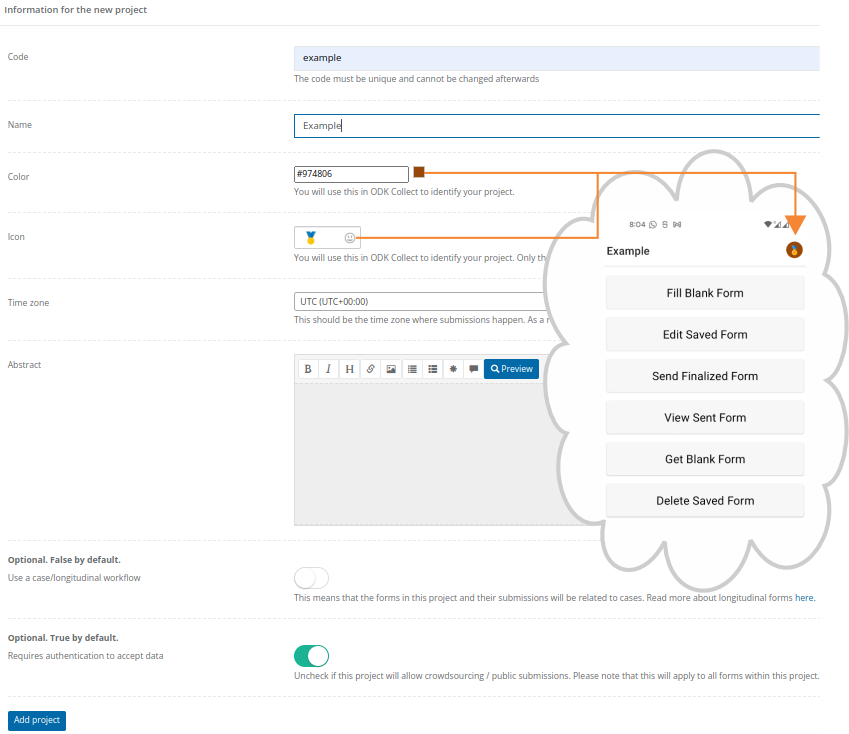
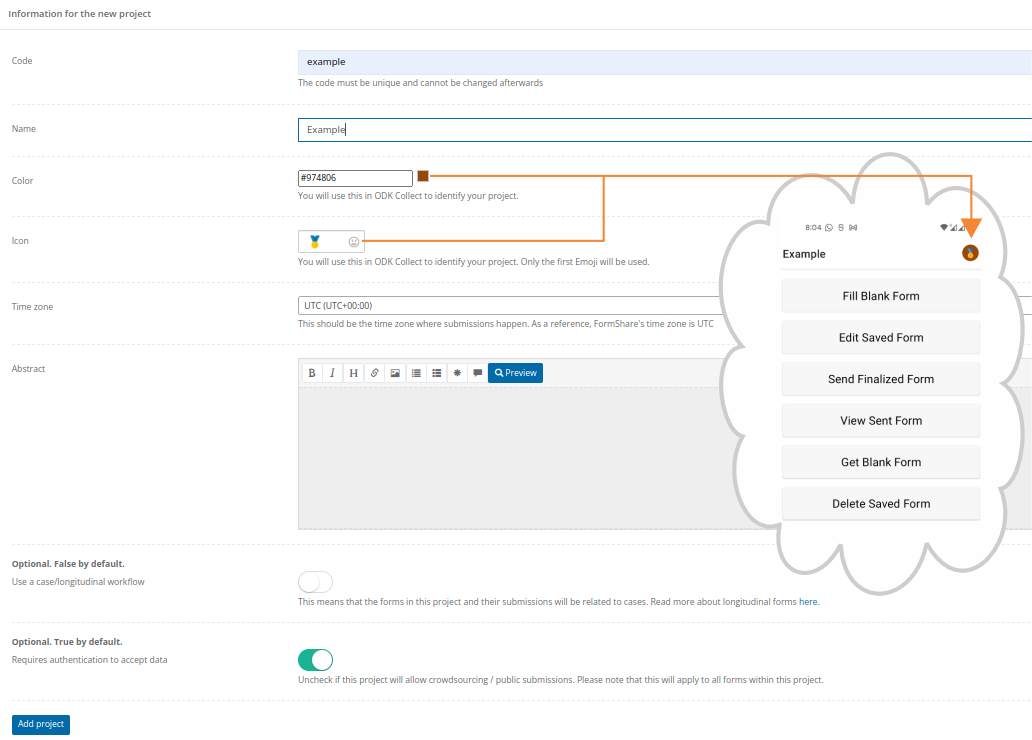
GitBook: [#16] More work in docs.

diff --git a/docs/guides/creating-your-first-task/create-and-assign-assistants.md b/docs/guides/creating-your-first-task/create-and-assign-assistants.md
@@ -4,7 +4,7 @@ After uploading a new form, FormShare will take you to the form details page.
 
 ![](../../.gitbook/assets/form\_details\_01\_captions.png)
 
-1\. Testing stage: Every form that you upload to FormShare is stored first in a **testing stage**. This means that FormShare hasn't created a [repository for it](../../fundamentals/repositories/how-formshare-stores-data.md). The testing stage allows you to test your form and easily update it with fixed versions without the need of [merging data into a repository](../../data-management/for-designers/working-with-submissions.md).
+1\. Testing stage: Every form that you upload to FormShare is stored first in a **testing stage**. This means that FormShare hasn't created a [repository for it](../../fundamentals/repositories/how-does-formshare-stores-my-data.md). The testing stage allows you to test your form and easily update it with fixed versions without the need of [merging data into a repository](../../data-management/for-designers/working-with-submissions.md).
 
 {% hint style="warning" %}
 Important Note: <mark style="color:red;">**Submissions received to a form in the testing stage are considered test data**</mark>. This means that any <mark style="color:red;">**submissions will be discarded**</mark> every time that you upload a new version of the form.
@@ -19,7 +19,7 @@ This behavior **is not the same** when your form has a repository. The section "
 4\. Delete: The delete button deletes the forms and all their data.
 
 {% hint style="info" %}
-FormShare does not physically (from the hard drive) removes any submissions. If you remove a form FormShare will remove it from the FormShare database and will not be accessible through the interface but its repository in MySQL will remain intact but marked as deleted. The same for any files and products generated in the form. The section "[How FormShare stores data](../../fundamentals/repositories/how-formshare-stores-data.md)" covers more details about this.
+FormShare does not physically (from the hard drive) removes any submissions. If you remove a form FormShare will remove it from the FormShare database and will not be accessible through the interface but its repository in MySQL will remain intact but marked as deleted. The same for any files and products generated in the form. The section "[How FormShare stores data](../../fundamentals/repositories/how-does-formshare-stores-my-data.md)" covers more details about this.
 {% endhint %}
 
 5\. Update ODK Form: As indicated in point 1 above, forms in a testing stage can be updated easily at any time. To update the form click on the "Update ODK Form" button. The "Upload new version" window will appear:
@@ -42,7 +42,7 @@ Remember: To control duplicate submissions, you need to select a variable from y
 6\. Downloads: Submissions received to a form in the testing stage are considered test data. At this stage, FormShare provides minimal download types:
 
 * Download ODK form: This will download the ODK form in Excel format
-* Download data in CSV format: This is a "[Flat CSV file](../../data-management/data-products/flat-csv-one-csv-file.md)". FormShare does not [resolve option labels or multi-select fields](../../fundamentals/repositories/how-formshare-stores-data.md) for data in the testing stage.
+* Download data in CSV format: This is a "[Flat CSV file](../../data-management/data-products/flat-csv-one-csv-file.md)". FormShare does not [resolve option labels or multi-select fields](../../fundamentals/repositories/how-does-formshare-stores-my-data.md) for data in the testing stage.
 * Download submitted media: This is a Zip file containing any media submitted to the form. Media files will be separated by [submission ID](../../fundamentals/submissions.md).
 
 7\. Form files: ODK forms can use supporting files when collecting data. These files can be data or media files. If your form uses data files, e.g., CSV files, FormShare will alert you if such files are missing. FormShare will finish checking your form once you attach all necessary data files.

diff --git a/docs/guides/creating-your-first-task/test-your-form.md b/docs/guides/creating-your-first-task/test-your-form.md
@@ -3,9 +3,35 @@
 Your form is now ready for collecting testing data.&#x20;
 
 {% hint style="info" %}
-Why do I need to test my form?
+We have noticed that 90% of the users do not test their forms before generating a repository. Even though FormShare allows [merging different versions of a form](../../fundamentals/repositories/merging-subversions-of-a-form.md) into one common repository, such a procedure is simpler when the form is in a testing stage.
+
+**Why do I need to test my form?**
+
+Though FormShare checks for certain errors in your form it does not check:
+
+* Logic problems. For example, if a question is not asked due to a wrong condition.
+* Is very common to miss a question and a field test can spot such problems.
+* Field agents might not understand the survey and more notes are required.
 {% endhint %}
 
 ![](../../.gitbook/assets/form\_test\_stage\_01\_captions.png)
 
-1. Configure Collect:&#x20;
+1\. Configure Collect: Use the QR code to configure ODK Collect. You can also use the ODK URL to manually configure it.
+
+2\. Important note: This form is in the testing stage. This means that you can update it at all times and **submissions are for testing purposes**. When you finished testing the form you can create a repository for the form and start collecting "real" data.
+
+{% hint style="warning" %}
+**Remember**: <mark style="color:red;">**Submissions received to a form in the testing stage are considered test data**</mark>. This means that any <mark style="color:red;">**submissions will be discarded**</mark> every time that you upload a new version of the form.
+
+This behavior **is not the same** when your form has a repository. The section "[Working with submissions](../../data-management/for-designers/working-with-submissions.md)" discusses how to perform updates to a form with a repository.
+{% endhint %}
+
+3\. Statistics: This section show statistics about your testing data. This information will change every time you receive new submissions. When you have submissions with GPS data your can explore each submission
+
+![](../../.gitbook/assets/submission\_details\_captions.png)
+
+1. Explore a submission: Click on any location on the map to see the information attached to its submission.
+2. Submission ID: Each submission in FormShare is stored with a unique ID. See the section "[How does FormShare stores my data?](../../fundamentals/repositories/how-does-formshare-stores-my-data.md)" for more information.
+3. Submission data: Each submission will show its data. Please note that FormShare only shows here the data outside a repeat. See the section "[How does FormShare stores my data?](../../fundamentals/repositories/how-does-formshare-stores-my-data.md)" for more information. If your submission has media like images, videos, or sound a new tab will appear for you to explore such media.
+
+Once you are satisfied with the testing. You can create a repository to start collecting "Real" data.

diff --git a/docs/guides/creating-your-first-task/README.md b/docs/guides/creating-your-first-task/README.md
@@ -45,7 +45,7 @@ If there are problems with your form, FormShare will tell you the problem and en
 {% hint style="info" %}
 **Why my form uploads fine on other platforms but not on FormShare?**
 
-FormShare creates a [MySQL database for each form](../../fundamentals/repositories/how-formshare-stores-data.md). This has several advantages compared to other platforms but it poses more restrictions. For example, the image above indicates that you cannot have a variable called "name". This is because "name" is a restricted keyword in MySQL or SQL language.
+FormShare creates a [MySQL database for each form](../../fundamentals/repositories/how-does-formshare-stores-my-data.md). This has several advantages compared to other platforms but it poses more restrictions. For example, the image above indicates that you cannot have a variable called "name". This is because "name" is a restricted keyword in MySQL or SQL language.
 
 The section "[Common errors in a Form](../../fundamentals/task-lists/common-errors-in-a-form.md)" provides information about each error that FormShare would detect in your form.
 {% endhint %}

diff --git a/docs/SUMMARY.md b/docs/SUMMARY.md
@@ -20,7 +20,8 @@
   * [Common errors in a form](fundamentals/task-lists/common-errors-in-a-form.md)
 * [Assistants](fundamentals/tasks.md)
 * [Repositories](fundamentals/repositories/README.md)
-  * [How FormShare stores data?](fundamentals/repositories/how-formshare-stores-data.md)
+  * [How does FormShare stores my data?](fundamentals/repositories/how-does-formshare-stores-my-data.md)
+  * [Merging subversions of a form](fundamentals/repositories/merging-subversions-of-a-form.md)
 * [Submissions](fundamentals/submissions.md)
 * [Partners](fundamentals/partners.md)
 

diff --git a/docs/guides/creating-your-first-project.md b/docs/guides/creating-your-first-project.md
@@ -12,7 +12,7 @@ Upon registration, FormShare will take you to the Dashboard. The dashboard is th
 6. **Sign out:** Click this link to exit FormShare.
 7. **Create project:** Click on the "Create a new project" button to add a new project. The "Add new project" screen will appear.
 
-![](<../.gitbook/assets/add\_project\_odk (1).png>)
+![](../.gitbook/assets/add\_project\_odk.png)
 
 To add a project you will need to provide the following information:
 

diff --git a/docs/fundamentals/repositories/merging-subversions-of-a-form.md b/docs/fundamentals/repositories/merging-subversions-of-a-form.md
@@ -1,0 +1,2 @@
+# Merging subversions of a form
+
